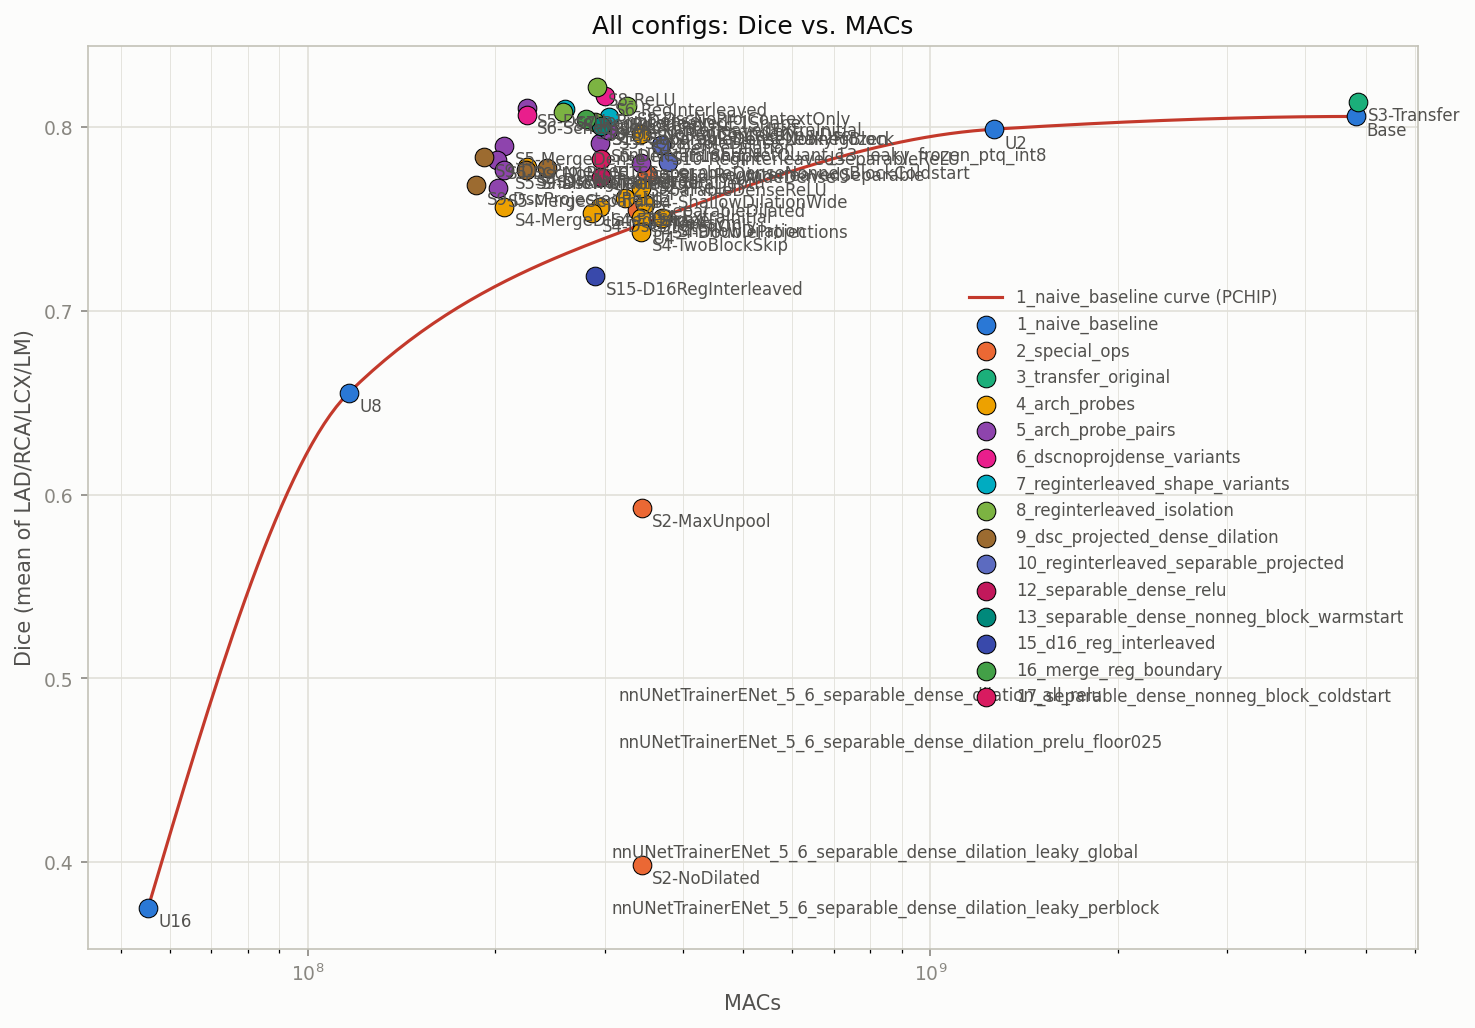
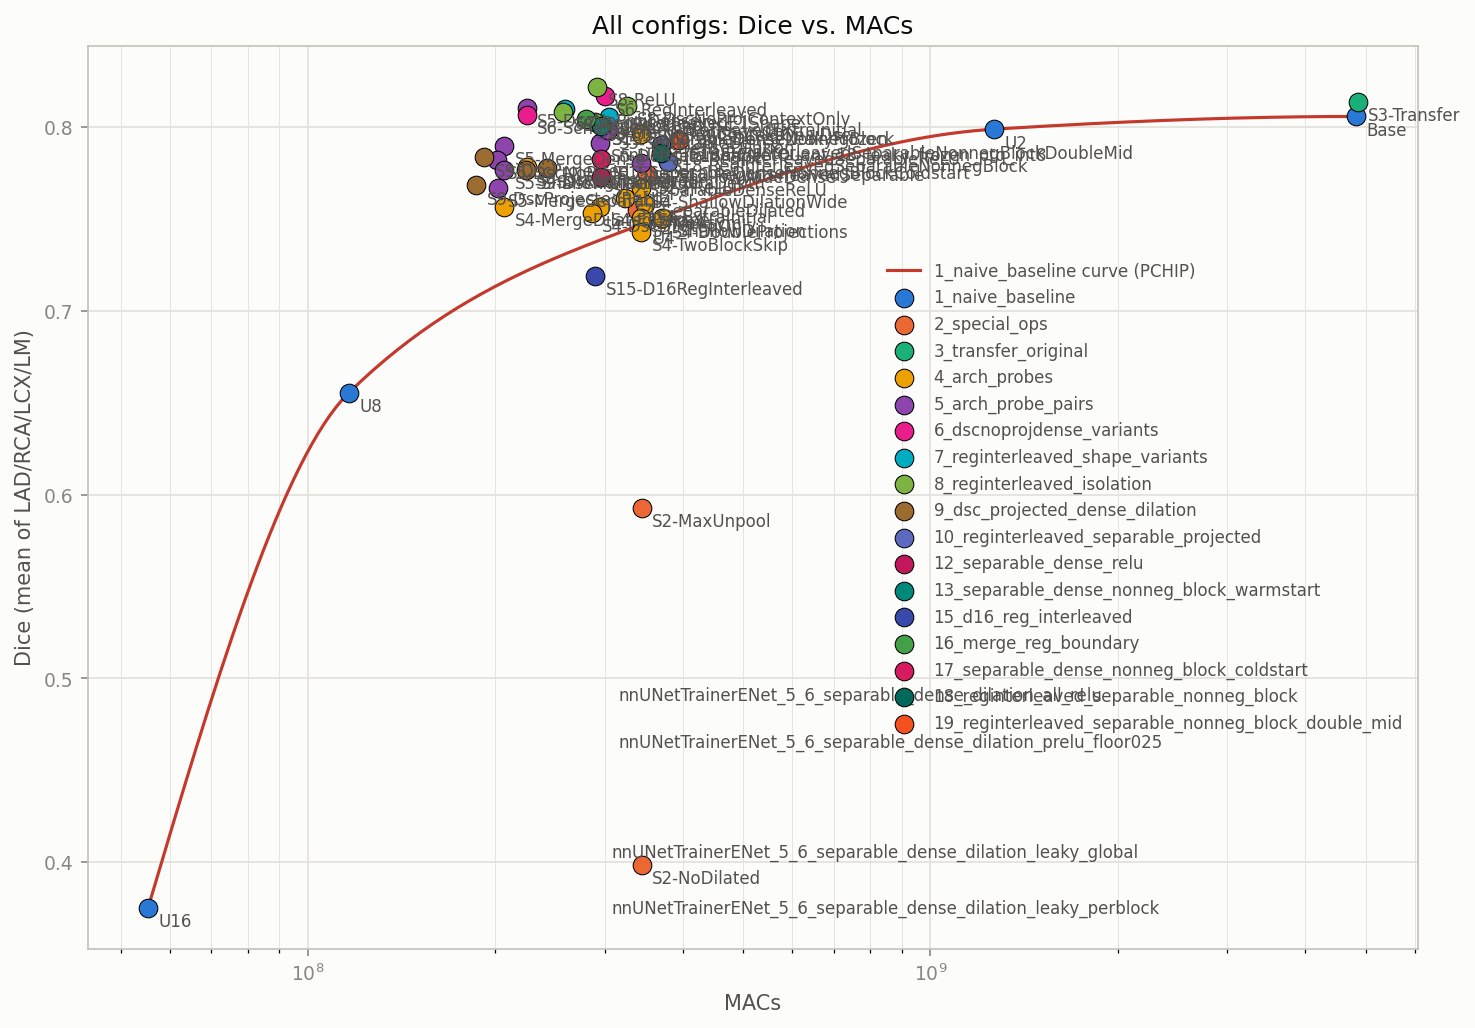
Collect S18/S19 real results, regenerate combined plots, add preprocess_501.sh
S18 (S10-ReginterleavedSeparable + nonneg_block leaky, cold start):
dice=0.7860, params=28578 -- vs S10-ReLU's own dice=0.7900 at slightly
fewer params (28549), roughly a wash. LCX/LM both improved vs S10-ReLU
despite the lower mean, RCA/LAD both dropped slightly.

S19 (S18 + doubled interior reg bookend): dice=0.7931, params=30948 -- beats
S18 by +0.0071 despite stopping early (epoch 141/150, converged_flag=False).
Doesn't cleanly confirm or refute S16's finding generalizes -- the early
stop muddies a direct comparison; RCA/LCX both improved substantially over
S18, LM dropped.

plot_all_configs.py: added stage colors for 18_reginterleaved_separable_nonneg_block
and 19_reginterleaved_separable_nonneg_block_double_mid; regenerated all
three combined dice-vs-params/MACs/mem-elements plots.

compression/slurm/preprocess_501.sh: new HPC preprocessing job for
Dataset501_ARCADE (binary vessel segmentation), modeled on preprocess_509.sh.
Dataset501_ARCADE's raw data was rebuilt locally (dataset-prep/prepare_arcade.py
--dataset-id 501 --source syntax --grid 1x1 --name Dataset501_ARCADE,
verified byte-identical to the dataset.json embedded in its existing old
checkpoints) as a pretraining source -- binary vessel presence is an easier
task than 4-class branch identification, a candidate warm start for a
4-class encoder the same way S13 was warm-started from S5-SeparableDense.

Changed region(s): [[0.5925, 0.249, 0.9356, 0.716], [0.4678, 0.1245, 0.7797, 0.1868], [0.4366, 0.1245, 0.4678, 0.1556]]

diff --git a/compression/plot_all_configs.py b/compression/plot_all_configs.py
@@ -42,6 +42,8 @@ STAGE_COLORS = {
     "15_d16_reg_interleaved": "#3949ab",
     "16_merge_reg_boundary": "#43a047",
     "17_separable_dense_nonneg_block_coldstart": "#d81b60",
+    "18_reginterleaved_separable_nonneg_block": "#00695c",
+    "19_reginterleaved_separable_nonneg_block_double_mid": "#f4511e",
 }
 CURVE_STAGE = "1_naive_baseline"
 CURVE_COLOR = "#c3392b"
